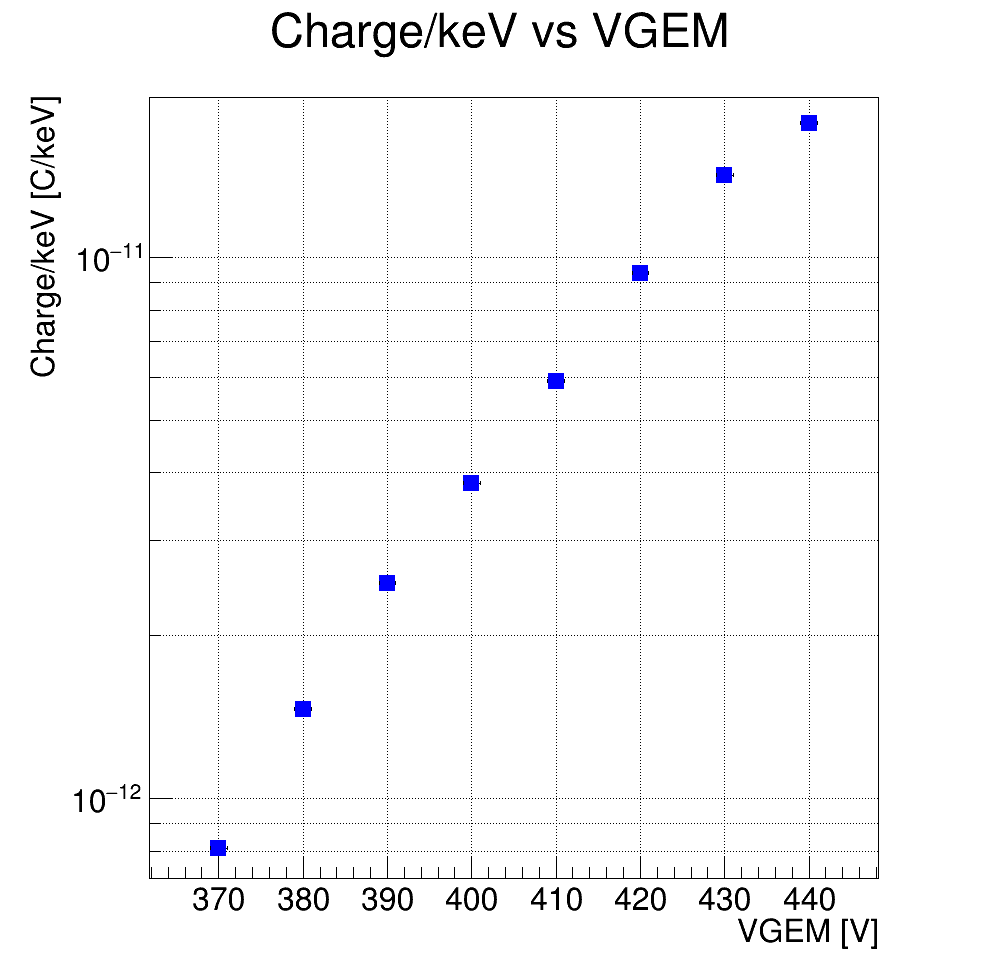
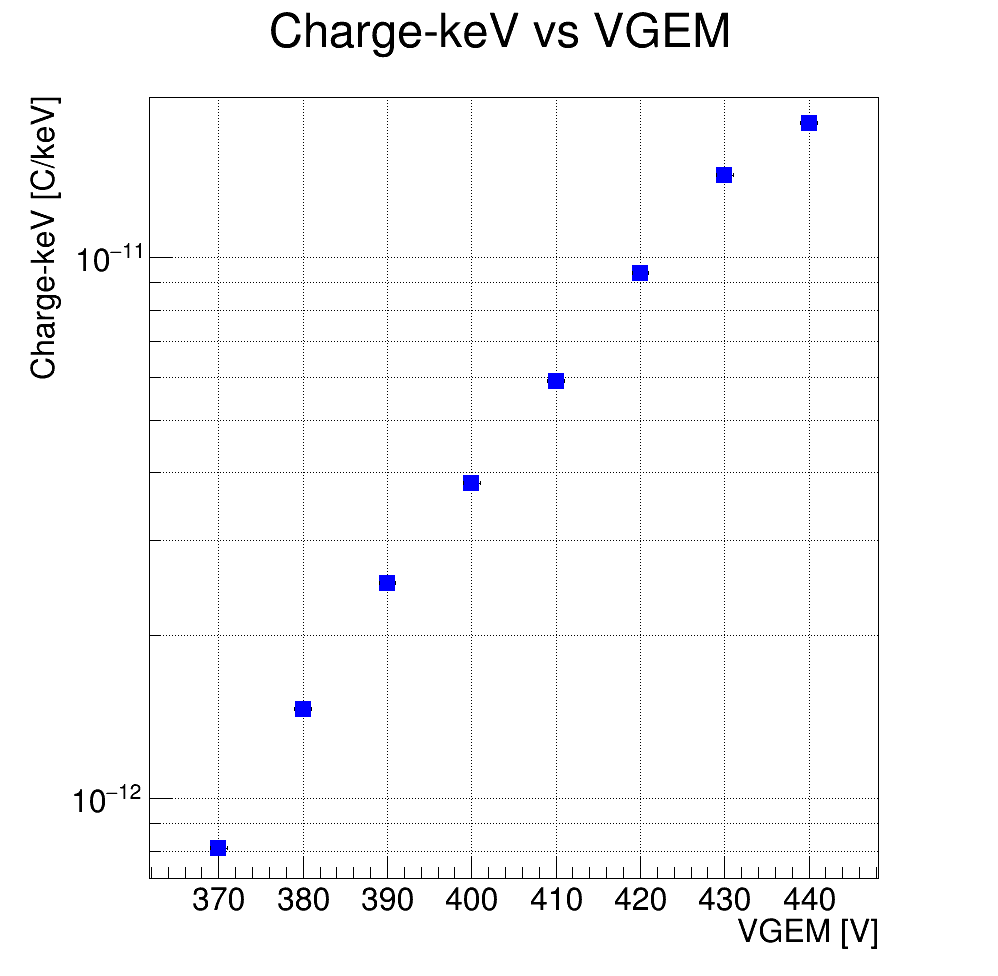
sorry this one

diff --git a/gainPico.py b/gainPico.py
@@ -246,7 +246,7 @@ gains_relative_errors = gains_relative*np.sqrt((net_errors/net_means)**2 + (err_
 print("Gains relative:", gains_relative)
 
 
-chargegainPlot=grapherr(vgem_numbers, gains_relative, np.ones(len(vgem_numbers)), gains_relative_errors, "VGEM [V]", "Charge/keV [C/keV]", "Charge/keV vs VGEM", write=False,markerstyle=21)
+chargegainPlot=grapherr(vgem_numbers, gains_relative, np.ones(len(vgem_numbers)), gains_relative_errors, "VGEM [V]", "Charge-keV [C/keV]", "Charge-keV vs VGEM", write=False,markerstyle=21)
 #expo=ROOT.TF1("expo","expo",300,410)
 #gainPlot.Fit("expo","RQ")
 chargegainPlot.Write()
